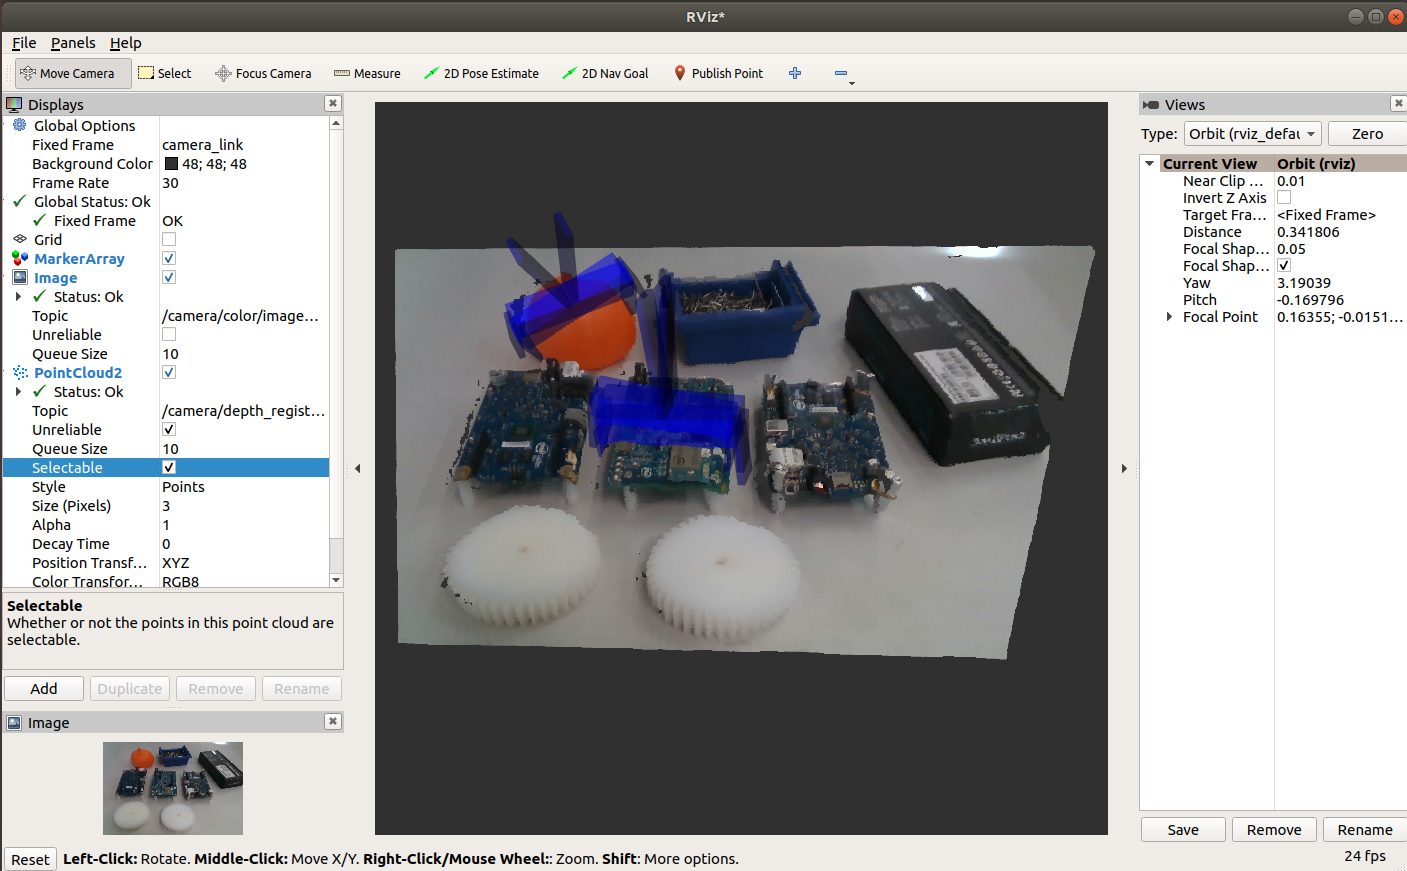
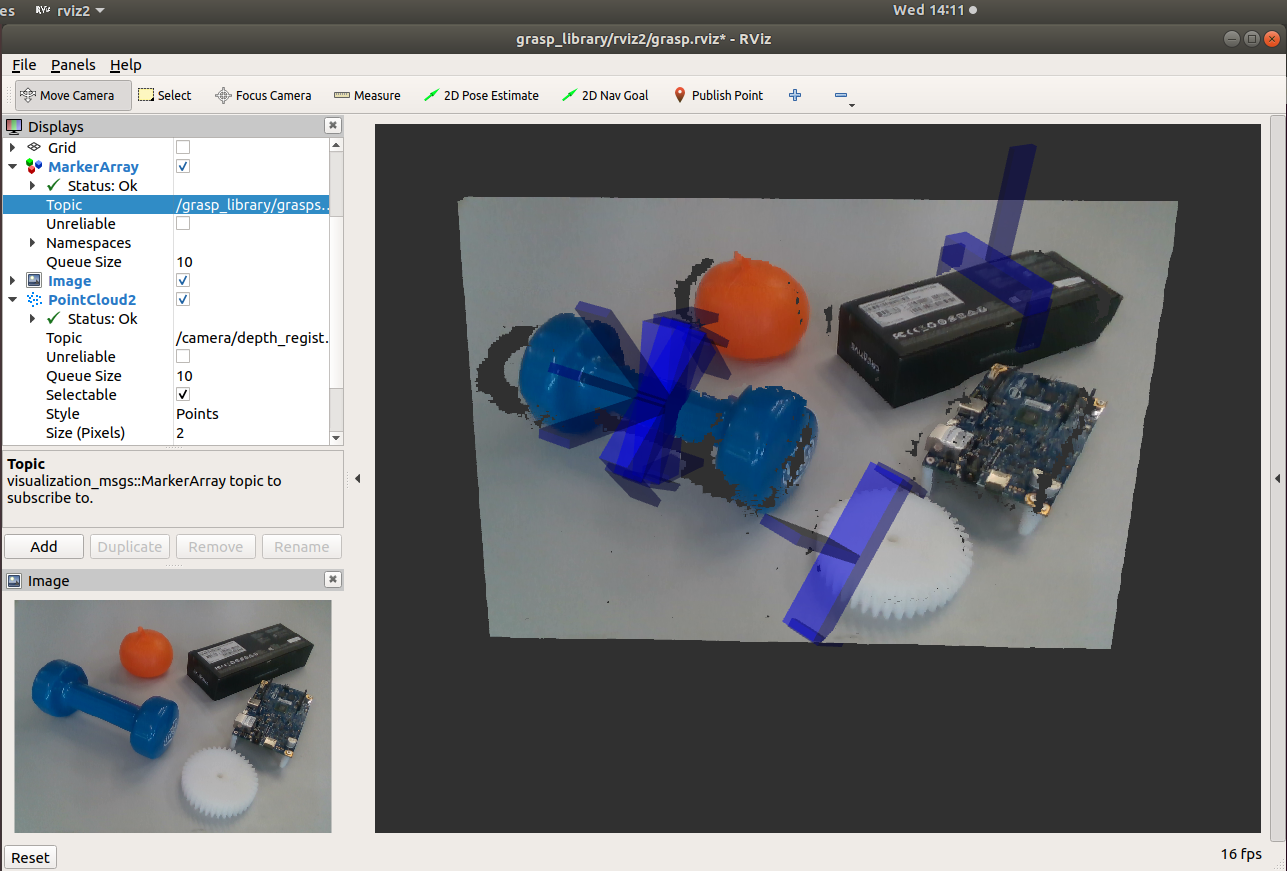
launch option: added launch option grasp_approach
Launch option "grasp_approach" specify expected approach direction in
the target frame specified by 'grasp_frame_id'. Grasp Planner will
return grasp poses with approach direction approximate to this
parameter. This is useful when a MoveIt application wants to
constraint the approaching direction.

diff --git a/grasp_library/src/ros_params.cpp b/grasp_library/src/ros_params.cpp
@@ -97,20 +97,25 @@ void ROSParameters::getPlanningParams(
   GraspPlanner::GraspPlanningParameters & param)
 {
   node->get_parameter_or("grasp_service_timeout", param.grasp_service_timeout_, 5);
-  node->get_parameter_or("grasp_frame_id", param.grasp_frame_id_, std::string("base"));
   node->get_parameter_or("grasp_score_threshold", param.grasp_score_threshold_, 200);
+  node->get_parameter_or("grasp_frame_id", param.grasp_frame_id_, std::string("base"));
+  std::vector<double> approach;
+  node->get_parameter_or("grasp_approach", approach,
+    std::vector<double>(std::initializer_list<double>({0.0, 0.0, -1.0})));
+  param.grasp_approach_ = tf2::Vector3(approach[0], approach[1], approach[2]);
+  node->get_parameter_or("grasp_approach_angle", param.grasp_approach_angle_, M_PI);
   node->get_parameter_or("grasp_offset", param.grasp_offset_,
     std::vector<double>(std::initializer_list<double>({0.0, 0.0, 0.0})));
   node->get_parameter_or("grasp_boundry", param.grasp_boundry_,
-    std::vector<double>(std::initializer_list<double>({-0.5, 0.5, -0.5, 0.5, -0.5, 0.5})));
+    std::vector<double>(std::initializer_list<double>({-1.0, 1.0, -1.0, 1.0, -1.0, 1.0})));
   node->get_parameter_or("grasp_min_distance", param.grasp_min_distance_, 0.06);
   node->get_parameter_or("grasp_desired_distance", param.grasp_desired_distance_, 0.1);
 
   // gripper parameters
   std::vector<double> finger_opens, finger_closes;
   node->get_parameter_or("finger_joint_names", param.finger_joint_names_,
-    std::vector<std::string>(std::initializer_list<std::string>({std::string("finger0_joint"),
-      std::string("finger1_joint")})));
+    std::vector<std::string>(std::initializer_list<std::string>({std::string("panda_finger_joint1"),
+      std::string("panda_finger_joint2")})));
   node->get_parameter_or("finger_positions_open", param.finger_points_open_.positions,
     std::vector<double>(std::initializer_list<double>({-0.04, 0.04})));
   node->get_parameter_or("finger_positions_close", param.finger_points_close_.positions,

diff --git a/grasp_library/src/grasp_planner.cpp b/grasp_library/src/grasp_planner.cpp
@@ -73,18 +73,31 @@ void GraspPlanner::grasp_callback(const grasp_msgs::msg::GraspConfigList::Shared
         continue;
       }
     }
+    if (param_.grasp_approach_angle_ != M_PI) {
+      // skip unacceptable approach
+      tf2::Vector3 approach(to_grasp.approach.x, to_grasp.approach.y, to_grasp.approach.z);
+      double ang = tf2::tf2Angle(approach, param_.grasp_approach_);
+      if (std::isnan(ang) ||
+        ang < -param_.grasp_approach_angle_ || ang > param_.grasp_approach_angle_)
+      {
+        RCLCPP_INFO(logger_, "skip unacceptable approach");
+        continue;
+      }
+    }
     // apply grasp offset
-    to_grasp.top.x += param_.grasp_offset_[0];
-    to_grasp.top.y += param_.grasp_offset_[1];
-    to_grasp.top.z += param_.grasp_offset_[2];
+    to_grasp.bottom.x += param_.grasp_offset_[0];
+    to_grasp.bottom.y += param_.grasp_offset_[1];
+    to_grasp.bottom.z += param_.grasp_offset_[2];
     // skip out of boundary grasps
-    if (!tf_available || check_boundry(to_grasp.top)) {
+    if (!tf_available || check_boundry(to_grasp.bottom)) {
       // translate into moveit grasp
       moveit_grasps_.push_back(toMoveIt(to_grasp, header));
     }
   }
 
-  cv_.notify_all();
+  if (!moveit_grasps_.empty()) {
+    cv_.notify_all();
+  }
 }
 
 bool GraspPlanner::transform(
@@ -144,7 +157,7 @@ moveit_msgs::msg::Grasp GraspPlanner::toMoveIt(
   msg.grasp_quality = grasp.score.data;
 
   // set grasp position
-  msg.grasp_pose.pose.position = grasp.top;
+  msg.grasp_pose.pose.position = grasp.bottom;
 
   // rotation matrix https://github.com/atenpas/gpd/blob/master/tutorials/hand_frame.png
   tf2::Matrix3x3 r(

diff --git a/grasp_library/include/grasp_library/grasp_planner.hpp b/grasp_library/include/grasp_library/grasp_planner.hpp
@@ -49,13 +49,18 @@ public:
   {
     /** timeout in seconds for a service request waiting for grasp detection result*/
     int grasp_service_timeout_;
-    /** frame id expected for grasps returned from this service*/
-    std::string grasp_frame_id_;
     /** minimum score expected for grasps returned from this service*/
     int grasp_score_threshold_;
+    /** frame id expected for grasps returned from this service*/
+    std::string grasp_frame_id_;
+    /** approach direction in grasp_frame_id_ expected for grasps*/
+    tf2::Vector3 grasp_approach_;
+    /** maxmimum angle in radian acceptable between the expected 'approach_' and
+     * the real approach returned from this service*/
+    double grasp_approach_angle_;
     /** offset [x, y, z] in metres applied to the grasps detected*/
     std::vector<double> grasp_offset_;
-    /** boundry in grasp_frame_id_ expected for grasps returned from this service*/
+    /** boundry cube in grasp_frame_id_ expected for grasps returned from this service*/
     std::vector<double> grasp_boundry_;
     /** minimum distance in metres for a grasp to approach and retreat*/
     double grasp_min_distance_;
@@ -120,6 +125,8 @@ private:
 
   /**
    * \brief Translate a grasp message to MoveIt message.
+   * 'Grasp.grasp_pose.pose.position' was translated from 'GraspConfig.bottom', which is the
+   * position closest to the 'parent_link' of the end-effector.
    * \param grasp Grasp message to be translated.
    * \header Message header for the frame where the 'grasp' was detected.
    * \return MoveIt message

diff --git a/docs/tutorials_3_grasp_library_launch_options.md b/docs/tutorials_3_grasp_library_launch_options.md
@@ -4,8 +4,8 @@ This tutorial documents the launch options which are used for customization. Eac
 
 ## GraspDetectorGPD Launch Options
 * **cloud_topic** [**"/camera/depth_registered/points"**|"string"]: Name of point cloud topic as input to the grasp detection, default value compliant with an RGBD OpenNI camera.
-* **device** [**0**|1|2|3]: Configure device for grasp pose inference to execute, 0 for CPU, 1 for GPU, 2 for VPU, 3 for FPGA. In case OpenVINO plug-ins are installed ([tutorial](install_openvino.md)), this configure deploy the CNN based deep learning inference on to the target device. Deploying the inference onto **GPU or VPU** will save 20% of the CPU for other computation tasks.
-* **auto_mode** [**false**|true]: Configure grasp detection mode. When auto_mode is true, Grasp Library works in sensor-driven mode, processing grasp detection when point cloud message arrives. When auto_mode is false, Grasp Library works in service-driven mode, processing grasp detection when a service request arrives. Configure to **service-driven** mode will save ~400% CPU against that of the sensor-driven mode.
+* **device** [**0**|1|2|3]: Configure device for grasp pose inference to execute, 0 for CPU, 1 for GPU, 2 for VPU, 3 for FPGA. In case OpenVINO plug-ins are installed ([tutorial](install_openvino.md)), this configure deploy the CNN based deep learning inference on to the target device. Deploying the inference onto **GPU or VPU** will save CPU loads for other computation tasks.
+* **auto_mode** [false|**true**]: Configure grasp detection mode. When auto_mode is true, Grasp Library works in sensor-driven mode, processing grasp detection when point cloud message arrives. When auto_mode is false, Grasp Library works in service-driven mode, processing grasp detection when a service request arrives. Configure to **service-driven** mode will save most CPU loads against that of the sensor-driven mode.
 * **plane_remove** [**false**|true]: Configure whether or not remove the planes (like the table plane) from point cloud input. Enabling this helps to avoid generating grasp poses across the table.
 * **workspace** [**[-1.0, 1.0, -1.0, 1.0, -1.0, 1,0]**|[1*6 double]]: Configure a boundry cube in camera frame for grasp generation and detection. *This need to be customized according to user's setup.*
 * **finger_width** [**0.005**|double]: The finger thickness in metres. *This need to be customized according to user's robot hand.*
@@ -15,12 +15,13 @@ This tutorial documents the launch options which are used for customization. Eac
 
 ## GraspPlanner Launch Options
 * **grasp_service_timeout** [**5**|double]: Timeout in seconds for a service request waiting for grasp detection result. Grasp Planner will not take point could inputs from the history buffer. Indeed after receiving a service request, Grasp Planner will start grasp detection on the coming point cloud input. This parameter configures the timeout period for Grasp Planner to wait for the grasp detection result. Usually this's an amount of max latencies in RGBD sensor, Grasp Detector, Grasp Planner, any other nodes in the pipeline, additionally with an estimated worst delay in the system.
+* **grasp_score_threshold** [**200**|integer]: Minimum score expected for grasps returned from this service.
 * **grasp_frame_id** [**"base"**|"string"]: Frame id expected for grasps returned from this service. When this parameter is specified, Grasp Planner try to transform the grasp from the original frame (usually a camera's color frame) to this target frame, given the TF available.
-* **grasp_score_threshold** [**200**|"integer"]: Minimum score expected for grasps returned from this service.
+* **grasp_approach** [**[0.0, 0.0, -1.0]**|[1*3 double]]: Specify expected approach direction in the target frame specified by 'grasp_frame_id'. Grasp Planner will return grasp poses with approach direction approximate to this parameter. This is useful when a MoveIt application wants to constraint the approaching direction. *This need to be customized according to user's setup.*
+* **grasp_approach_angle** [**M_PI**|3.14|1.57|double]: Maximum angle in radian acceptable between the expected 'grasp_approach' and the real approach returned from this service. Default is [-M_PI, M_PI], which implies any approach directions are acceptable. *This need to be customized according to user's setup.*
 * **grasp_offset** [**[0.0, 0.0, 0.0]**|[1*3 double]]: Offset [x, y, z] in metres applied to the grasps detected. This offset allows adjustment over the final grasp position, to overcome erros that might be accumulated from camera calibration, hand-eye calibration, grasp pose detection, etc. *This need to be customized according to user's setup.*
-* **grasp_boundry** [**[-0.5, 0.5, -0.5, 0.5, -0.5, 0.5]**|[1*6 double]]: Boundry in grasp_frame_id expected for grasps returned from this service. This parameter takes effect only after transformation into the target frame specified by "grasp_frame_id". When the transformation is unavailalbe, boundry checking will be skipped, and in such case the "GraspDetectorGPD::workspace" parameter still takes effect. *This need to be customized according to user's setup.*
-* **approach_approximation** []: to be added soon. Specify expected approach approximation vector in the target frame specified by 'grasp_frame_id'. Grasp Planner will return grasp poses with approach vector approximate to this value. This is useful when a MoveIt application wants to constraint the approaching direction. *This need to be customized according to user's setup.*
-* **finger_joint_names** [**["finger0_joint", "finger1_joint"]**|[1*2 "string"]]: Joint names of gripper fingers. Joint names are filled into MoveIt's grasp interface ([moveit_msgs::msg::Grasp](http://docs.ros.org/api/moveit_msgs/html/msg/Grasp.html)), to control the posture of hand for the 'pre-grasp' and 'grasp' positions, original values usually from URDF of the robot hand. *This need to be customized according to user's setup.*
+* **grasp_boundry** [**[-1.0, 1.0, -1.0, 1.0, -1.0, 1,0]**|[1*6 double]]: Boundry cube in grasp_frame_id expected for grasps returned from this service. This parameter takes effect only after transformation into the target frame specified by "grasp_frame_id". When the transformation is unavailalbe, boundry checking will be skipped, and in such case the "GraspDetectorGPD::workspace" parameter still takes effect. *This need to be customized according to user's setup.*
+* **finger_joint_names** [**["panda_finger_joint1", "panda_finger_joint2"]**|[1*2 "string"]]: Joint names of gripper fingers. Joint names are filled into MoveIt's grasp interface, to control the posture of hand for the position of 'pre_grasp_posture' and 'grasp_posture' (see [moveit_msgs::msg::Grasp](http://docs.ros.org/api/moveit_msgs/html/msg/Grasp.html)). Joint names are usually defined in URDF of the robot hand. *This need to be customized according to user's setup.*
 
 Other ROS parameters not mentioned here, refer to the codes [ros_params.cpp](../grasp_library/src/ros_params.cpp) for details.
 

diff --git a/docs/tutorials_1_grasp_library_with_camera.md b/docs/tutorials_1_grasp_library_with_camera.md
@@ -28,7 +28,10 @@ git clone https://github.com/intel/ros2_grasp_library.git
 # copy GPD models
 cp -a <path-to-gpd-repo>/models ros2_grasp_library/gpd
 # build
+cd ..
+source /opt/ros/crystal/setup.bash
 colcon build --symlink-install --packages-select grasp_msgs moveit_msgs grasp_library
+source ./install/local_setup.bash
 ```
 
 ## Launch Grasp Library
@@ -41,5 +44,5 @@ ros2 run realsense_ros2_camera realsense_ros2_camera
 ros2 run grasp_library grasp_library __params:=src/ros2_grasp_library/grasp_library/cfg/grasp_library_params.yaml
 # Terminal 3, Optionally, launch Rviz2 to illustrate detection results.
 # NOTE You may customize the ".rviz" file for your own camera, like "Global Options -> Fixed Frame" or "Point Cloud 2 -> Topic"
-ros2 run rviz2 rviz2 -d ~/ros2_ws/src/ros2_grasp_library/grasp_library/rviz2/grasp.rviz
+ros2 run rviz2 rviz2 -d src/ros2_grasp_library/grasp_library/rviz2/grasp.rviz
 ```
